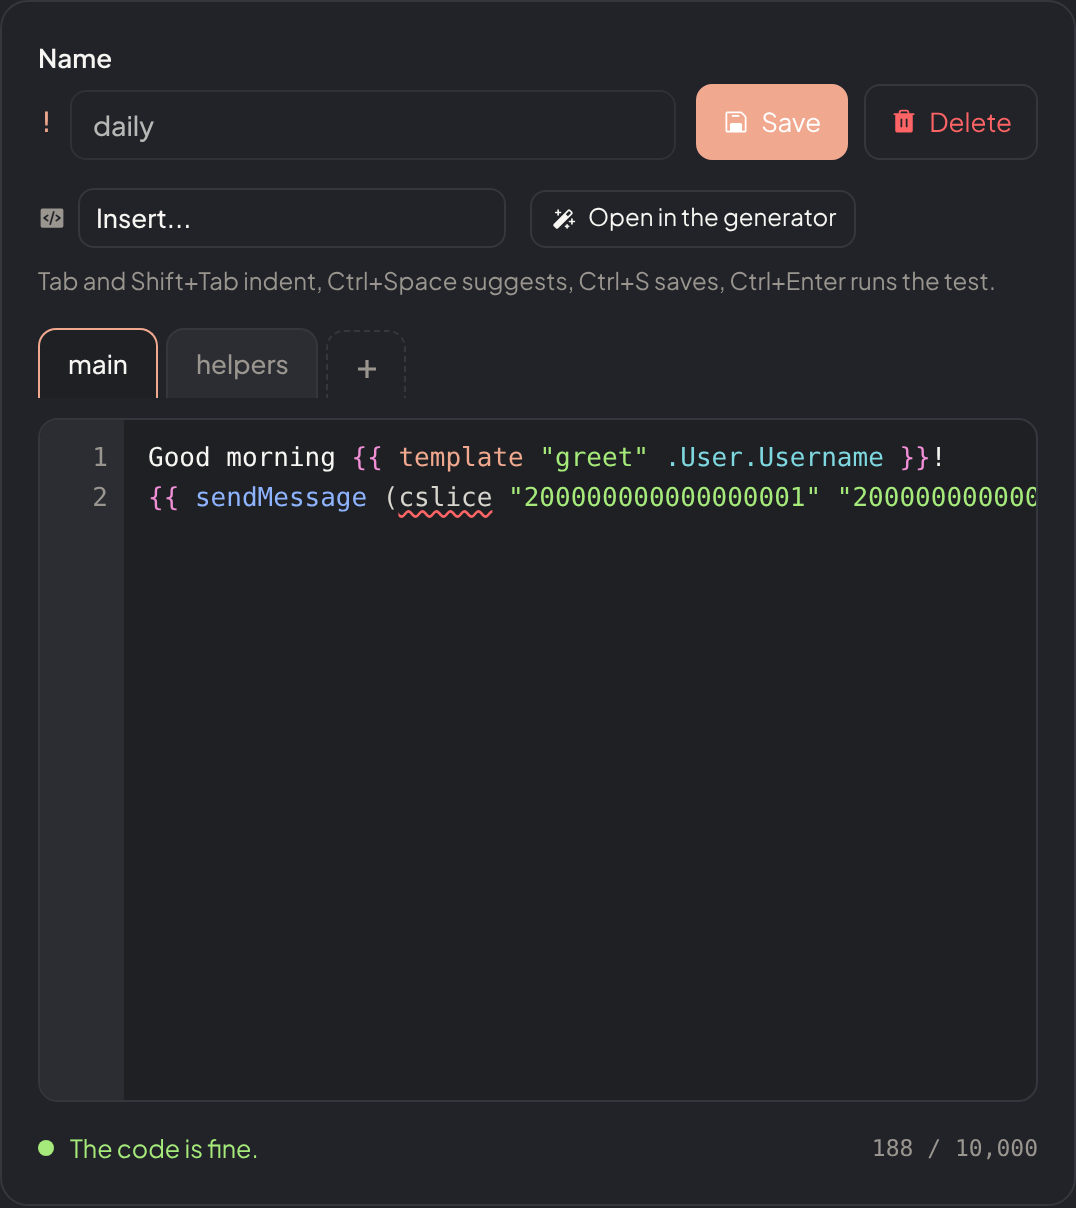
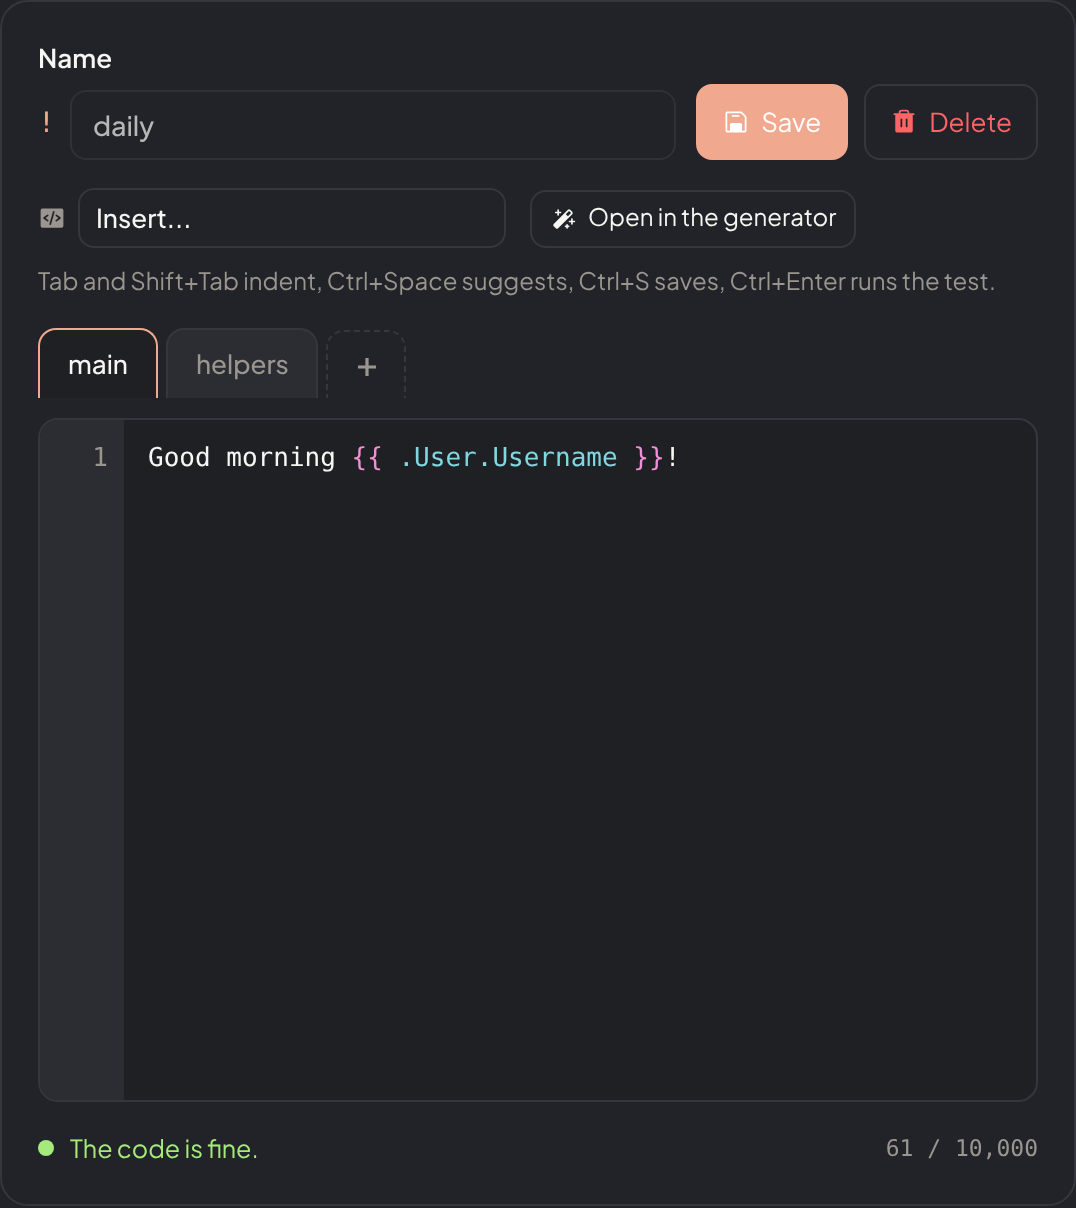
Code page: the crosses of the connections and the files are centered, runCommand in the editor catalog, pictures redone

Changed region(s): [[0.368, 0.3675, 0.9507, 0.4288], [0.184, 0.3982, 0.3374, 0.4288]]

diff --git a/src/utils/codeEditor/catalog.ts b/src/utils/codeEditor/catalog.ts
@@ -221,6 +221,7 @@ export const FUNCTIONS: CatalogFunction[] = [
   F('connect', 'getCC', 'getCC "name"', 'The data of a command (Number, Name, HasCode, Trigger) by name or by number', 'Los datos de un comando (Number, Name, HasCode, Trigger) por nombre o por número', 'Os dados de um comando (Number, Name, HasCode, Trigger) por nome ou por número'),
   F('connect', 'listCC', '(listCC)', 'The list of the commands of the server, with their numbers', 'La lista de los comandos del servidor, con sus números', 'A lista dos comandos do servidor, com seus números'),
   F('connect', 'execTemplate', 'execTemplate "name" VALUE', 'Runs a piece saved with define and gives what it prints', 'Ejecuta un trozo guardado con define y da lo que imprime', 'Roda um pedaço guardado com define e dá o que ele imprime'),
+  F('actions', 'runCommand', 'runCommand "ping"', 'Runs a command of Petto as the member who used the command, with all its checks (2 a run)', 'Ejecuta un comando de Petto como el miembro que usó el comando, con todas sus comprobaciones (2 por uso)', 'Roda um comando do Petto como o membro que usou o comando, com todas as suas verificações (2 por uso)'),
   F('later', 'scheduleUniqueCC', 'scheduleUniqueCC "name" "id" (toDuration "10m") (sdict "key" "value")', 'Runs a command later (5 seconds to 7 days); the same id replaces it', 'Ejecuta un comando más tarde (5 segundos a 7 días); el mismo id lo sustituye', 'Roda um comando mais tarde (5 segundos a 7 dias); o mesmo id o substitui'),
   F('later', 'scheduleRepeatCC', 'scheduleRepeatCC "name" "id" (toDuration "1h") (sdict "key" "value")', 'Runs a command again and again, every 5 minutes to 7 days; the same id replaces it', 'Ejecuta un comando una y otra vez, cada 5 minutos a 7 días; el mismo id lo sustituye', 'Roda um comando de novo e de novo, a cada 5 minutos a 7 dias; o mesmo id o substitui'),
   F('later', 'scheduleDailyCC', 'scheduleDailyCC "name" "id" "20:00" "America/Bogota" (sdict "key" "value")', 'Runs a command every day at a time of a time zone (the one of the server if none)', 'Ejecuta un comando cada día a una hora de una zona horaria (la del servidor si no dices ninguna)', 'Roda um comando todo dia em um horário de um fuso (o do servidor se não disser nenhum)'),
